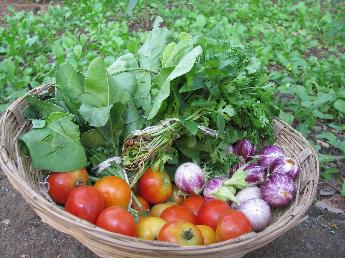
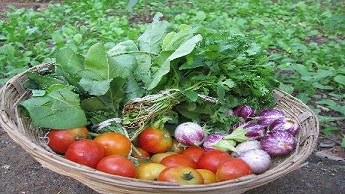
Added gallery for eysrc

diff --git a/resources/views/includes/footer.blade.php b/resources/views/includes/footer.blade.php
@@ -105,126 +105,126 @@
 }
 </style>
  <footer class="bg-gray-600 mx-6">
-<div class="container mx-auto px-8"><!-- class="w-full flex flex-col md:flex-row py-6" -->
-   <div class=" px-4 sm:px-6 text-gray-800 sm:grid md:grid-cols-4 sm:grid-cols-2 mx-auto">
-     <div class="p-5  w-2/3">
-          <img  src="{!! asset('img/iitblogo.png') !!}">
-            <!-- <div class="flex pb-5 px-3 m-auto pt-5 border-t text-gray-800 text-sm flex-col
-              max-w-screen-lg items-center">
-              <div class="md:flex-auto md:flex-row-reverse mt-2 flex-row flex">
-                 <a href="/https://twitter.com/eyantra_iitb" class="w-6 mx-1">
-                    <svg class="fill-current cursor-pointer text-gray-600 hover:text-indigo-600" width="100%" height="100%" viewBox="0 0 24 24" version="1.1" xmlns="http://www.w3.org/2000/svg" xmlns:xlink="http://www.w3.org/1999/xlink" xml:space="preserve" xmlns:serif="http://www.serif.com/" style="fill-rule: evenodd; clip-rule: evenodd; stroke-linejoin: round; stroke-miterlimit: 2;">
-                       <path id="Twitter" d="M24,12c0,6.627 -5.373,12 -12,12c-6.627,0 -12,-5.373 -12,-12c0,-6.627
-                          5.373,-12 12,-12c6.627,0 12,5.373 12,12Zm-6.465,-3.192c-0.379,0.168
-                          -0.786,0.281 -1.213,0.333c0.436,-0.262 0.771,-0.676
-                          0.929,-1.169c-0.408,0.242 -0.86,0.418 -1.341,0.513c-0.385,-0.411
-                          -0.934,-0.667 -1.541,-0.667c-1.167,0 -2.112,0.945 -2.112,2.111c0,0.166
-                          0.018,0.327 0.054,0.482c-1.754,-0.088 -3.31,-0.929
-                          -4.352,-2.206c-0.181,0.311 -0.286,0.674 -0.286,1.061c0,0.733 0.373,1.379
-                          0.94,1.757c-0.346,-0.01 -0.672,-0.106 -0.956,-0.264c-0.001,0.009
-                          -0.001,0.018 -0.001,0.027c0,1.023 0.728,1.877 1.694,2.07c-0.177,0.049
-                          -0.364,0.075 -0.556,0.075c-0.137,0 -0.269,-0.014 -0.397,-0.038c0.268,0.838
-                          1.048,1.449 1.972,1.466c-0.723,0.566 -1.633,0.904 -2.622,0.904c-0.171,0
-                          -0.339,-0.01 -0.504,-0.03c0.934,0.599 2.044,0.949 3.237,0.949c3.883,0
-                          6.007,-3.217 6.007,-6.008c0,-0.091 -0.002,-0.183 -0.006,-0.273c0.413,-0.298
-                          0.771,-0.67 1.054,-1.093Z"></path>
-                    </svg>
-                 </a>
-                 <a href="https://www.linkedin.com/company/e-yantraiitb/" class="w-6 mx-1">
-                    <svg class="fill-current cursor-pointer text-gray-500 hover:text-indigo-600" width="100%" height="100%" viewBox="0 0 24 24" version="1.1" xmlns="http://www.w3.org/2000/svg" xmlns:xlink="http://www.w3.org/1999/xlink" xml:space="preserve" xmlns:serif="http://www.serif.com/" style="fill-rule: evenodd; clip-rule: evenodd; stroke-linejoin: round; stroke-miterlimit: 2;">
-                       <path id="Facebook" d="M24,12c0,6.627 -5.373,12 -12,12c-6.627,0 -12,-5.373 -12,-12c0,-6.627
-                          5.373,-12 12,-12c6.627,0 12,5.373
-                          12,12Zm-11.278,0l1.294,0l0.172,-1.617l-1.466,0l0.002,-0.808c0,-0.422
-                          0.04,-0.648 0.646,-0.648l0.809,0l0,-1.616l-1.295,0c-1.555,0 -2.103,0.784
-                          -2.103,2.102l0,0.97l-0.969,0l0,1.617l0.969,0l0,4.689l1.941,0l0,-4.689Z"></path>
-                    </svg>
-                 </a>
-                 <a href="https://www.linkedin.com/company/e-yantraiitb/" target="_blank" class="w-6 mx-1">
-                    <svg class="fill-current cursor-pointer text-gray-500 hover:text-indigo-600" width="100%" height="100%" viewBox="0 0 24 24" version="1.1" xmlns="http://www.w3.org/2000/svg" xmlns:xlink="http://www.w3.org/1999/xlink" xml:space="preserve" xmlns:serif="http://www.serif.com/" style="fill-rule: evenodd; clip-rule: evenodd; stroke-linejoin: round; stroke-miterlimit: 2;">
-                       <g id="Layer_1">
-                          <circle id="Oval" cx="12" cy="12" r="12"></circle>
-                          <path id="Shape" d="M19.05,8.362c0,-0.062 0,-0.125 -0.063,-0.187l0,-0.063c-0.187,-0.562
-                             -0.687,-0.937 -1.312,-0.937l0.125,0c0,0 -2.438,-0.375 -5.75,-0.375c-3.25,0
-                             -5.75,0.375 -5.75,0.375l0.125,0c-0.625,0 -1.125,0.375
-                             -1.313,0.937l0,0.063c0,0.062 0,0.125 -0.062,0.187c-0.063,0.625 -0.25,1.938
-                             -0.25,3.438c0,1.5 0.187,2.812 0.25,3.437c0,0.063 0,0.125
-                             0.062,0.188l0,0.062c0.188,0.563 0.688,0.938 1.313,0.938l-0.125,0c0,0
-                             2.437,0.375 5.75,0.375c3.25,0 5.75,-0.375 5.75,-0.375l-0.125,0c0.625,0
-                             1.125,-0.375 1.312,-0.938l0,-0.062c0,-0.063 0,-0.125
-                             0.063,-0.188c0.062,-0.625 0.25,-1.937 0.25,-3.437c0,-1.5 -0.125,-2.813
-                             -0.25,-3.438Zm-4.634,3.927l-3.201,2.315c-0.068,0.068 -0.137,0.068
-                             -0.205,0.068c-0.068,0 -0.136,0 -0.204,-0.068c-0.136,-0.068 -0.204,-0.204
-                             -0.204,-0.34l0,-4.631c0,-0.136 0.068,-0.273 0.204,-0.341c0.136,-0.068
-                             0.272,-0.068 0.409,0l3.201,2.316c0.068,0.068 0.136,0.204
-                             0.136,0.34c0.068,0.136 0,0.273 -0.136,0.341Z" style="fill: rgb(255, 255, 255);"></path>
-                       </g>
-                    </svg>
-                 </a>
-                 <a href="https://www.facebook.com/eyantra" target="_blank" class="w-6 mx-1">
-                    <svg class="fill-current cursor-pointer text-gray-500 hover:text-indigo-600" width="100%" height="100%" viewBox="0 0 24 24" version="1.1" xmlns="http://www.w3.org/2000/svg" xmlns:xlink="http://www.w3.org/1999/xlink" xml:space="preserve" xmlns:serif="http://www.serif.com/" style="fill-rule: evenodd; clip-rule: evenodd; stroke-linejoin: round; stroke-miterlimit: 2;">
-                       <path id="Shape" d="M7.3,0.9c1.5,-0.6 3.1,-0.9 4.7,-0.9c1.6,0 3.2,0.3 4.7,0.9c1.5,0.6 2.8,1.5
-                          3.8,2.6c1,1.1 1.9,2.3 2.6,3.8c0.7,1.5 0.9,3 0.9,4.7c0,1.7 -0.3,3.2
-                          -0.9,4.7c-0.6,1.5 -1.5,2.8 -2.6,3.8c-1.1,1 -2.3,1.9 -3.8,2.6c-1.5,0.7
-                          -3.1,0.9 -4.7,0.9c-1.6,0 -3.2,-0.3 -4.7,-0.9c-1.5,-0.6 -2.8,-1.5
-                          -3.8,-2.6c-1,-1.1 -1.9,-2.3 -2.6,-3.8c-0.7,-1.5 -0.9,-3.1 -0.9,-4.7c0,-1.6
-                          0.3,-3.2 0.9,-4.7c0.6,-1.5 1.5,-2.8 2.6,-3.8c1.1,-1 2.3,-1.9
-                          3.8,-2.6Zm-0.3,7.1c0.6,0 1.1,-0.2 1.5,-0.5c0.4,-0.3 0.5,-0.8 0.5,-1.3c0,-0.5
-                          -0.2,-0.9 -0.6,-1.2c-0.4,-0.3 -0.8,-0.5 -1.4,-0.5c-0.6,0 -1.1,0.2
-                          -1.4,0.5c-0.3,0.3 -0.6,0.7 -0.6,1.2c0,0.5 0.2,0.9 0.5,1.3c0.3,0.4 0.9,0.5
-                          1.5,0.5Zm1.5,10l0,-8.5l-3,0l0,8.5l3,0Zm11,0l0,-4.5c0,-1.4 -0.3,-2.5
-                          -0.9,-3.3c-0.6,-0.8 -1.5,-1.2 -2.6,-1.2c-0.6,0 -1.1,0.2 -1.5,0.5c-0.4,0.3
-                          -0.8,0.8 -0.9,1.3l-0.1,-1.3l-3,0l0.1,2l0,6.5l3,0l0,-4.5c0,-0.6 0.1,-1.1
-                          0.4,-1.5c0.3,-0.4 0.6,-0.5 1.1,-0.5c0.5,0 0.9,0.2 1.1,0.5c0.2,0.3 0.4,0.8
-                          0.4,1.5l0,4.5l2.9,0Z"></path>
-                    </svg>
-                 </a>
-                 <a href="/https://twitter.com/eyantra_iitb" class="w-6 mx-1">
-                    <svg class="fill-current cursor-pointer text-gray-500 hover:text-indigo-600" width="100%" height="100%" viewBox="0 0 24 24" version="1.1" xmlns="http://www.w3.org/2000/svg" xmlns:xlink="http://www.w3.org/1999/xlink" xml:space="preserve" xmlns:serif="http://www.serif.com/" style="fill-rule: evenodd; clip-rule: evenodd; stroke-linejoin: round; stroke-miterlimit: 2;">
-                       <path id="instagram" d="M12,24c6.627,0 12,-5.373 12,-12c0,-6.627 -5.373,-12 -12,-12c-6.627,0
-                          -12,5.373 -12,12c0,6.627 5.373,12 12,12Zm6.591,-15.556l-0.722,0c-0.189,0
-                          -0.681,0.208 -0.681,0.385l0,6.422c0,0.178 0.492,0.323
-                          0.681,0.323l0.722,0l0,1.426l-4.675,0l0,-1.426l0.935,0l0,-6.655l-0.163,0l-2.251,8.081l-1.742,0l-2.222,-8.081l-0.168,0l0,6.655l0.935,0l0,1.426l-3.74,0l0,-1.426l0.519,0c0.203,0
-                          0.416,-0.145 0.416,-0.323l0,-6.422c0,-0.177 -0.213,-0.385
-                          -0.416,-0.385l-0.519,0l0,-1.426l4.847,0l1.583,5.704l0.042,0l1.598,-5.704l5.021,0l0,1.426Z"></path>
-                    </svg>
-                 </a>
+        <div class="container mx-auto px-8"><!-- class="w-full flex flex-col md:flex-row py-6" -->
+           <div class=" px-4 sm:px-6 text-gray-800 sm:grid md:grid-cols-4 sm:grid-cols-2 mx-auto">
+             <div class="p-5  w-2/3">
+                  <img  src="{!! asset('img/iitblogo.png') !!}">
+                    <!-- <div class="flex pb-5 px-3 m-auto pt-5 border-t text-gray-800 text-sm flex-col
+                      max-w-screen-lg items-center">
+                      <div class="md:flex-auto md:flex-row-reverse mt-2 flex-row flex">
+                         <a href="/https://twitter.com/eyantra_iitb" class="w-6 mx-1">
+                            <svg class="fill-current cursor-pointer text-gray-600 hover:text-indigo-600" width="100%" height="100%" viewBox="0 0 24 24" version="1.1" xmlns="http://www.w3.org/2000/svg" xmlns:xlink="http://www.w3.org/1999/xlink" xml:space="preserve" xmlns:serif="http://www.serif.com/" style="fill-rule: evenodd; clip-rule: evenodd; stroke-linejoin: round; stroke-miterlimit: 2;">
+                               <path id="Twitter" d="M24,12c0,6.627 -5.373,12 -12,12c-6.627,0 -12,-5.373 -12,-12c0,-6.627
+                                  5.373,-12 12,-12c6.627,0 12,5.373 12,12Zm-6.465,-3.192c-0.379,0.168
+                                  -0.786,0.281 -1.213,0.333c0.436,-0.262 0.771,-0.676
+                                  0.929,-1.169c-0.408,0.242 -0.86,0.418 -1.341,0.513c-0.385,-0.411
+                                  -0.934,-0.667 -1.541,-0.667c-1.167,0 -2.112,0.945 -2.112,2.111c0,0.166
+                                  0.018,0.327 0.054,0.482c-1.754,-0.088 -3.31,-0.929
+                                  -4.352,-2.206c-0.181,0.311 -0.286,0.674 -0.286,1.061c0,0.733 0.373,1.379
+                                  0.94,1.757c-0.346,-0.01 -0.672,-0.106 -0.956,-0.264c-0.001,0.009
+                                  -0.001,0.018 -0.001,0.027c0,1.023 0.728,1.877 1.694,2.07c-0.177,0.049
+                                  -0.364,0.075 -0.556,0.075c-0.137,0 -0.269,-0.014 -0.397,-0.038c0.268,0.838
+                                  1.048,1.449 1.972,1.466c-0.723,0.566 -1.633,0.904 -2.622,0.904c-0.171,0
+                                  -0.339,-0.01 -0.504,-0.03c0.934,0.599 2.044,0.949 3.237,0.949c3.883,0
+                                  6.007,-3.217 6.007,-6.008c0,-0.091 -0.002,-0.183 -0.006,-0.273c0.413,-0.298
+                                  0.771,-0.67 1.054,-1.093Z"></path>
+                            </svg>
+                         </a>
+                         <a href="https://www.linkedin.com/company/e-yantraiitb/" class="w-6 mx-1">
+                            <svg class="fill-current cursor-pointer text-gray-500 hover:text-indigo-600" width="100%" height="100%" viewBox="0 0 24 24" version="1.1" xmlns="http://www.w3.org/2000/svg" xmlns:xlink="http://www.w3.org/1999/xlink" xml:space="preserve" xmlns:serif="http://www.serif.com/" style="fill-rule: evenodd; clip-rule: evenodd; stroke-linejoin: round; stroke-miterlimit: 2;">
+                               <path id="Facebook" d="M24,12c0,6.627 -5.373,12 -12,12c-6.627,0 -12,-5.373 -12,-12c0,-6.627
+                                  5.373,-12 12,-12c6.627,0 12,5.373
+                                  12,12Zm-11.278,0l1.294,0l0.172,-1.617l-1.466,0l0.002,-0.808c0,-0.422
+                                  0.04,-0.648 0.646,-0.648l0.809,0l0,-1.616l-1.295,0c-1.555,0 -2.103,0.784
+                                  -2.103,2.102l0,0.97l-0.969,0l0,1.617l0.969,0l0,4.689l1.941,0l0,-4.689Z"></path>
+                            </svg>
+                         </a>
+                         <a href="https://www.linkedin.com/company/e-yantraiitb/" target="_blank" class="w-6 mx-1">
+                            <svg class="fill-current cursor-pointer text-gray-500 hover:text-indigo-600" width="100%" height="100%" viewBox="0 0 24 24" version="1.1" xmlns="http://www.w3.org/2000/svg" xmlns:xlink="http://www.w3.org/1999/xlink" xml:space="preserve" xmlns:serif="http://www.serif.com/" style="fill-rule: evenodd; clip-rule: evenodd; stroke-linejoin: round; stroke-miterlimit: 2;">
+                               <g id="Layer_1">
+                                  <circle id="Oval" cx="12" cy="12" r="12"></circle>
+                                  <path id="Shape" d="M19.05,8.362c0,-0.062 0,-0.125 -0.063,-0.187l0,-0.063c-0.187,-0.562
+                                     -0.687,-0.937 -1.312,-0.937l0.125,0c0,0 -2.438,-0.375 -5.75,-0.375c-3.25,0
+                                     -5.75,0.375 -5.75,0.375l0.125,0c-0.625,0 -1.125,0.375
+                                     -1.313,0.937l0,0.063c0,0.062 0,0.125 -0.062,0.187c-0.063,0.625 -0.25,1.938
+                                     -0.25,3.438c0,1.5 0.187,2.812 0.25,3.437c0,0.063 0,0.125
+                                     0.062,0.188l0,0.062c0.188,0.563 0.688,0.938 1.313,0.938l-0.125,0c0,0
+                                     2.437,0.375 5.75,0.375c3.25,0 5.75,-0.375 5.75,-0.375l-0.125,0c0.625,0
+                                     1.125,-0.375 1.312,-0.938l0,-0.062c0,-0.063 0,-0.125
+                                     0.063,-0.188c0.062,-0.625 0.25,-1.937 0.25,-3.437c0,-1.5 -0.125,-2.813
+                                     -0.25,-3.438Zm-4.634,3.927l-3.201,2.315c-0.068,0.068 -0.137,0.068
+                                     -0.205,0.068c-0.068,0 -0.136,0 -0.204,-0.068c-0.136,-0.068 -0.204,-0.204
+                                     -0.204,-0.34l0,-4.631c0,-0.136 0.068,-0.273 0.204,-0.341c0.136,-0.068
+                                     0.272,-0.068 0.409,0l3.201,2.316c0.068,0.068 0.136,0.204
+                                     0.136,0.34c0.068,0.136 0,0.273 -0.136,0.341Z" style="fill: rgb(255, 255, 255);"></path>
+                               </g>
+                            </svg>
+                         </a>
+                         <a href="https://www.facebook.com/eyantra" target="_blank" class="w-6 mx-1">
+                            <svg class="fill-current cursor-pointer text-gray-500 hover:text-indigo-600" width="100%" height="100%" viewBox="0 0 24 24" version="1.1" xmlns="http://www.w3.org/2000/svg" xmlns:xlink="http://www.w3.org/1999/xlink" xml:space="preserve" xmlns:serif="http://www.serif.com/" style="fill-rule: evenodd; clip-rule: evenodd; stroke-linejoin: round; stroke-miterlimit: 2;">
+                               <path id="Shape" d="M7.3,0.9c1.5,-0.6 3.1,-0.9 4.7,-0.9c1.6,0 3.2,0.3 4.7,0.9c1.5,0.6 2.8,1.5
+                                  3.8,2.6c1,1.1 1.9,2.3 2.6,3.8c0.7,1.5 0.9,3 0.9,4.7c0,1.7 -0.3,3.2
+                                  -0.9,4.7c-0.6,1.5 -1.5,2.8 -2.6,3.8c-1.1,1 -2.3,1.9 -3.8,2.6c-1.5,0.7
+                                  -3.1,0.9 -4.7,0.9c-1.6,0 -3.2,-0.3 -4.7,-0.9c-1.5,-0.6 -2.8,-1.5
+                                  -3.8,-2.6c-1,-1.1 -1.9,-2.3 -2.6,-3.8c-0.7,-1.5 -0.9,-3.1 -0.9,-4.7c0,-1.6
+                                  0.3,-3.2 0.9,-4.7c0.6,-1.5 1.5,-2.8 2.6,-3.8c1.1,-1 2.3,-1.9
+                                  3.8,-2.6Zm-0.3,7.1c0.6,0 1.1,-0.2 1.5,-0.5c0.4,-0.3 0.5,-0.8 0.5,-1.3c0,-0.5
+                                  -0.2,-0.9 -0.6,-1.2c-0.4,-0.3 -0.8,-0.5 -1.4,-0.5c-0.6,0 -1.1,0.2
+                                  -1.4,0.5c-0.3,0.3 -0.6,0.7 -0.6,1.2c0,0.5 0.2,0.9 0.5,1.3c0.3,0.4 0.9,0.5
+                                  1.5,0.5Zm1.5,10l0,-8.5l-3,0l0,8.5l3,0Zm11,0l0,-4.5c0,-1.4 -0.3,-2.5
+                                  -0.9,-3.3c-0.6,-0.8 -1.5,-1.2 -2.6,-1.2c-0.6,0 -1.1,0.2 -1.5,0.5c-0.4,0.3
+                                  -0.8,0.8 -0.9,1.3l-0.1,-1.3l-3,0l0.1,2l0,6.5l3,0l0,-4.5c0,-0.6 0.1,-1.1
+                                  0.4,-1.5c0.3,-0.4 0.6,-0.5 1.1,-0.5c0.5,0 0.9,0.2 1.1,0.5c0.2,0.3 0.4,0.8
+                                  0.4,1.5l0,4.5l2.9,0Z"></path>
+                            </svg>
+                         </a>
+                         <a href="/https://twitter.com/eyantra_iitb" class="w-6 mx-1">
+                            <svg class="fill-current cursor-pointer text-gray-500 hover:text-indigo-600" width="100%" height="100%" viewBox="0 0 24 24" version="1.1" xmlns="http://www.w3.org/2000/svg" xmlns:xlink="http://www.w3.org/1999/xlink" xml:space="preserve" xmlns:serif="http://www.serif.com/" style="fill-rule: evenodd; clip-rule: evenodd; stroke-linejoin: round; stroke-miterlimit: 2;">
+                               <path id="instagram" d="M12,24c6.627,0 12,-5.373 12,-12c0,-6.627 -5.373,-12 -12,-12c-6.627,0
+                                  -12,5.373 -12,12c0,6.627 5.373,12 12,12Zm6.591,-15.556l-0.722,0c-0.189,0
+                                  -0.681,0.208 -0.681,0.385l0,6.422c0,0.178 0.492,0.323
+                                  0.681,0.323l0.722,0l0,1.426l-4.675,0l0,-1.426l0.935,0l0,-6.655l-0.163,0l-2.251,8.081l-1.742,0l-2.222,-8.081l-0.168,0l0,6.655l0.935,0l0,1.426l-3.74,0l0,-1.426l0.519,0c0.203,0
+                                  0.416,-0.145 0.416,-0.323l0,-6.422c0,-0.177 -0.213,-0.385
+                                  -0.416,-0.385l-0.519,0l0,-1.426l4.847,0l1.583,5.704l0.042,0l1.598,-5.704l5.021,0l0,1.426Z"></path>
+                            </svg>
+                         </a>
+                      </div>
+                    </div>-->
               </div>
-            </div>-->
-      </div>
-     <div class="p-5">
-        <img src="{!! asset('img/mhrd.png') !!}">
-     </div>
-      
-      <div class="p-5">
-         <div class="text-2xl uppercase text-white font-bold">Our Initiatives</div>
-         <a class="my-3 text-gray-800 font-bold" href="e-yantra.org">eLSI </a><br>
-         <a class="my-3 font-bold" href="/portal.e-yantra.org">eYRC</a><br>
-         <a class="my-3 font-bold" href="eyic.e-yantra.org">eYIC </a> <br>
-         <a class="my-3 font-bold" href="content.e-yantra.org">eYRDC </a> <br>
-         <a class="my-3 font-bold" href="mooc.e-yantra.org">MOOC </a> <br>
-         <a class="my-3 font-bold" href="eysrc.e-yantra.org">eYSRC </a> <br>
-         <a class="my-3 font-bold" href="efsi.e-yantra.org">eFSI </a> <br>
-      </div>
-      <div class="p-5">
-         <div class="text-2xl uppercase text-white font-bold">Contact us</div>
-         <a class="my-3 font-bold" href="/#">ERTS Lab,<br>First Floor, KReSIT Building,<br> CSE Dept, <br>IIT Bombay, <br>Powai, Mumbai-400076,<br> Maharashtra, India.<span class="text-teal-600 text-xs p-1"></span></a><br>
-         <a class="my-3 font-bold" href="/#">support@e-yantra.org <span class="text-teal-600 text-xs p-1"></span></a> 
-      </div>
-   </div>
-</div>
-<div class="bg-gray-600 pt-2">
-    <div class="rounded-social-buttons items-center text-center">
-        <a class="social-button facebook" href="https://www.facebook.com/eyantra" target="_blank"><i class="fab fa-facebook-f"></i></a>
-        <a class="social-button twitter" href="https://twitter.com/eyantra_iitb" target="_blank"><i class="fab fa-twitter"></i></a>
-        <a class="social-button linkedin" href="https://www.linkedin.com/company/e-yantraiitb/" target="_blank"><i class="fab fa-linkedin"></i></a>
-        <a class="social-button youtube" href="https://www.youtube.com/user/eyantra" target="_blank"><i class="fab fa-youtube"></i></a>
-        <a class="social-button instagram" href="https://www.instagram.com/eyantra/" target="_blank"><i class="fab fa-instagram"></i></a>
-    </div> 
-    <div class="w-full py-6 text-center text-gray-500">
-        <hr class="mb-5">
-            Copyright © {!!date('Y')!!} <a class="text-gray-100 font-bold" href="//e-yantra.org" target="_blank">e-Yantra</a>. All rights reserved. <br>     
-    </div>
-</div>
+             <div class="p-5">
+                <img src="{!! asset('img/mhrd.png') !!}">
+             </div>
+              
+              <div class="p-5">
+                 <div class="text-2xl uppercase text-white font-bold">Our Initiatives</div>
+                 <a class="my-3 text-gray-800 font-bold" href="e-yantra.org">eLSI </a><br>
+                 <a class="my-3 font-bold" href="/portal.e-yantra.org">eYRC</a><br>
+                 <a class="my-3 font-bold" href="eyic.e-yantra.org">eYIC </a> <br>
+                 <a class="my-3 font-bold" href="content.e-yantra.org">eYRDC </a> <br>
+                 <a class="my-3 font-bold" href="mooc.e-yantra.org">MOOC </a> <br>
+                 <a class="my-3 font-bold" href="eysrc.e-yantra.org">eYSRC </a> <br>
+                 <a class="my-3 font-bold" href="efsi.e-yantra.org">eFSI </a> <br>
+              </div>
+              <div class="p-5">
+                 <div class="text-2xl uppercase text-white font-bold">Contact us</div>
+                 <a class="my-3 font-bold" href="/#">ERTS Lab,<br>First Floor, KReSIT Building,<br> CSE Dept, <br>IIT Bombay, <br>Powai, Mumbai-400076,<br> Maharashtra, India.<span class="text-teal-600 text-xs p-1"></span></a><br>
+                 <a class="my-3 font-bold" href="/#">support@e-yantra.org <span class="text-teal-600 text-xs p-1"></span></a> 
+              </div>
+           </div>
+        </div>
+        <div class="bg-gray-600 pt-2">
+            <div class="rounded-social-buttons items-center text-center">
+                <a class="social-button facebook" href="https://www.facebook.com/eyantra" target="_blank"><i class="fab fa-facebook-f"></i></a>
+                <a class="social-button twitter" href="https://twitter.com/eyantra_iitb" target="_blank"><i class="fab fa-twitter"></i></a>
+                <a class="social-button linkedin" href="https://www.linkedin.com/company/e-yantraiitb/" target="_blank"><i class="fab fa-linkedin"></i></a>
+                <a class="social-button youtube" href="https://www.youtube.com/user/eyantra" target="_blank"><i class="fab fa-youtube"></i></a>
+                <a class="social-button instagram" href="https://www.instagram.com/eyantra/" target="_blank"><i class="fab fa-instagram"></i></a>
+            </div> 
+            <div class="w-full py-6 text-center text-gray-500">
+                <hr class="mb-5">
+                    Copyright © {!!date('Y')!!} <a class="text-gray-100 font-bold" href="//e-yantra.org" target="_blank">e-Yantra</a>. All rights reserved. <br>     
+            </div>
+        </div>
 </footer>
 <script defer src="https://use.fontawesome.com/releases/v5.0.13/js/all.js" integrity="sha384-xymdQtn1n3lH2wcu0qhcdaOpQwyoarkgLVxC/wZ5q7h9gHtxICrpcaSUfygqZGOe" crossorigin="anonymous"></script>
 

diff --git a/resources/views/gallery.blade.php b/resources/views/gallery.blade.php
@@ -66,19 +66,37 @@
                       </div>
                     </section>
                   </div>
-                  <div class="hidden" id="tab-eysrc">
+                  <!-- <div class="hidden" id="tab-eysrc">
                     <section class="py-8 px-4">
                       <div class="flex flex-wrap -mx-4">
                         <div class="hidden md:block md:w-1/2 px-4">
-                          <div class="h-full w-full bg-cover rounded shadow-md" style="background-image: url('https://source.unsplash.com/random/1280x720')"></div>
+                          <div class="h-full w-full bg-cover rounded shadow-md" style="background-image: url('./assets/eysrc/1.jpg')"></div>
                         </div>
                         <div class="md:w-1/2 h-auto px-4">
-                          <div class="mb-8"><img class="rounded shadow-md" src="https://source.unsplash.com/random/1280x720" alt=""></div>
-                          <div><img class="rounded shadow-md" src="https://source.unsplash.com/random/1280x720" alt=""></div>
+                          <div class="mb-8"><img class="rounded shadow-md" src="./assets/eysrc/2.jpg" alt=""></div>
+                          <div><img class="rounded shadow-md" src="./assets/eysrc/3.jpg" alt=""></div>
                         </div>
                       </div>
                     </section>
+                  </div> -->
+                  <div class="hidden" id="tab-eysrc">
+                    <!-- <section class="py-8 px-4">
+                      <div class="flex flex-wrap -mx-4">
+                        <div class="md:w-1/3 px-4 mb-8"><img class="rounded shadow-md" src="./assets/eysrc/1.jpg" alt=""></div>
+                        <div class="md:w-1/3 px-4 mb-8"><img class="rounded shadow-md" src="./assets/eysrc/2.jpg" alt=""></div>
+                        <div class="md:w-1/3 px-4 mb-8"><img class="rounded shadow-md" src="./assets/eysrc/3.jpg" alt=""></div>
+                        
+                      </div>
+                    </section> -->
+                    <section class="py-8 px-4"  id="tab-eysrc">
+                      <div class="flex flex-wrap -mx-4">
+                        <div class="md:w-1/2 px-4 mb-8 md:mb-0"><img class="rounded shadow-md" src="./assets/eysrc/1.jpg" alt=""></div>
+                        <div class=" px-4 mb-8 md:mb-0"><img class="rounded shadow-md" src="./assets/eysrc/collage.jpg" alt=""></div>
+                      </div>
+                    </section>
                   </div>
+
+
                   <div class="hidden" id="tab-efsi">
                     <section class="py-8 px-4">
                       <div class="flex flex-wrap -mx-4">

diff --git a/resources/views/includes/header.blade.php b/resources/views/includes/header.blade.php
@@ -434,20 +434,20 @@
           <div class="text-sm lg:flex-col">
             <ul class="flex flex-col lg:flex-row list-none lg:ml-auto">
               <li class="mr-3 transition duration-500 ease-in-out transform hover:-translate-y-1 hover:scale-110">
-                <a class="inline-block py-2 px-4 text-gray-400 text-red-500 no-underline hover:text-red-800 hover:text-underline font-bold text-xl" href="">About Us</a>
+                <a class="inline-block py-2 px-4 text-gray-400 text-red-500 no-underline hover:text-red-800 hover:text-underline font-bold text-xl" href="/">About Us</a>
               </li>
-              <li class="mr-3 transition duration-500 ease-in-out transform hover:-translate-y-1 hover:scale-110">
+              <!-- <li class="mr-3 transition duration-500 ease-in-out transform hover:-translate-y-1 hover:scale-110">
                 <a class="inline-block py-2 px-4 text-gray-400 text-red-500 no-underline hover:text-red-800 hover:text-underline font-bold text-xl" href="">Event Calender</a>
-              </li>
+              </li> -->
               <li class="mr-3 transition duration-500 ease-in-out transform hover:-translate-y-1 hover:scale-110">
                 <a class="inline-block py-2 px-4 text-gray-400 text-red-500 no-underline hover:text-red-800 hover:text-underline font-bold text-xl" href="gallery">Gallery</a>
               </li>
               <li class="mr-3 transition duration-500 ease-in-out transform hover:-translate-y-1 hover:scale-110">
                 <a class="inline-block py-2 px-4 text-gray-400 text-red-500 no-underline hover:text-red-800 hover:text-underline font-bold text-xl" href="team">Our Team</a>
               </li>
-              <li class="mr-3 transition duration-500 ease-in-out transform hover:-translate-y-1 hover:scale-110">
+              <!-- <li class="mr-3 transition duration-500 ease-in-out transform hover:-translate-y-1 hover:scale-110">
                 <a class="inline-block py-2 px-4 text-gray-400 text-red-500 no-underline hover:text-red-800 hover:text-underline font-bold text-xl" href="">Publications</a>
-              </li>
+              </li> -->
               <li class="mr-3 transition duration-500 ease-in-out transform hover:-translate-y-1 hover:scale-110">
                 <a class="inline-block py-2 px-4 text-gray-400 text-red-500 no-underline hover:text-red-800 hover:text-underline font-bold text-xl" href="contact">Contact Us</a>
               </li>

diff --git a/resources/views/home.blade.php b/resources/views/home.blade.php
@@ -25,7 +25,7 @@
             <!-- End Section -->
 
             <!-- What we do -->
-            <section class="container-fluid px-6 py-4 mx-auto bg-cover items-center mt-4 ml-6 mr-6 bg-gray-200 md:pt-24 justify-center" data-aos="fade-up" data-aos-duration="3000">
+            <section class="container-fluid px-6 py-4 mx-auto bg-cover items-center mt-4 ml-6 mr-6 bg-gray-200 md:pt-24 justify-center" data-aos="fade-up" data-aos-duration="3000" id="about">
               <h1 class="w-full my-2 text-4xl font-bold leading-tight text-center text-gray-800"> What we do</h1>
               <div class="w-full mb-4">
                 <div class="h-1 mx-auto gradient w-64 opacity-25 my-0 py-0 rounded-t"></div>
